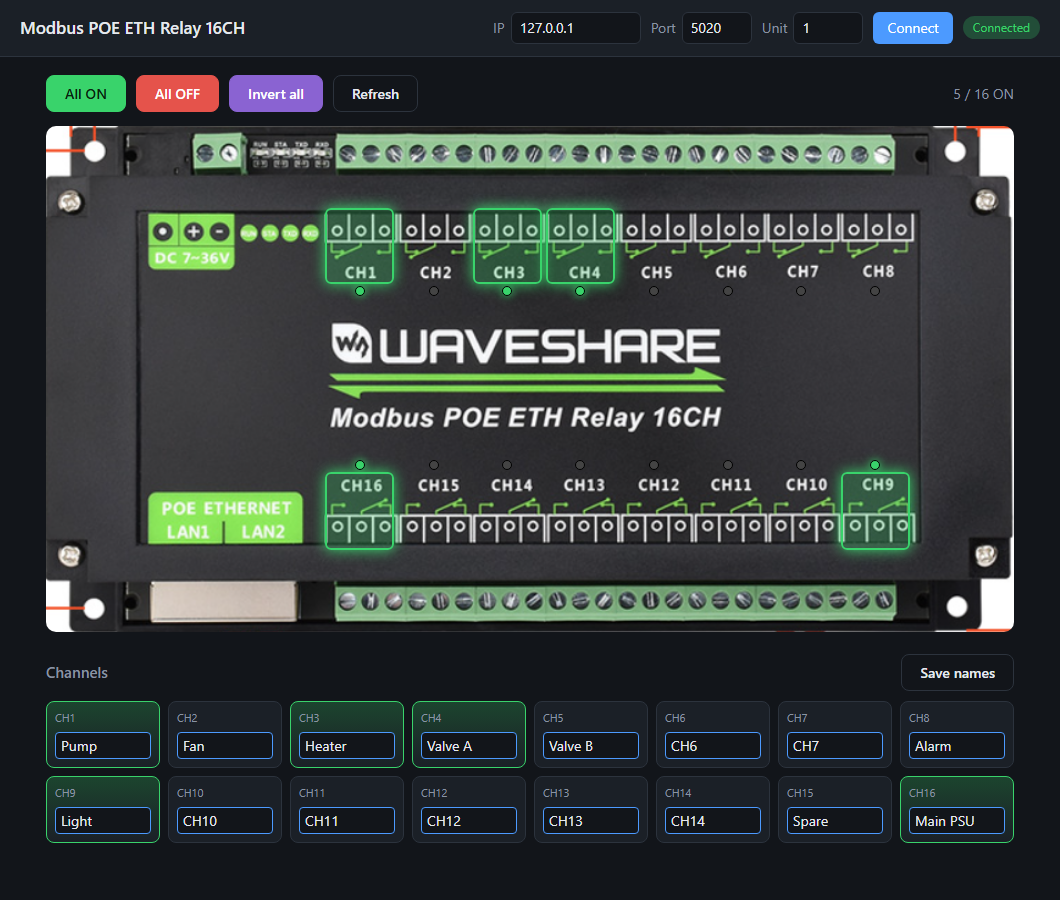
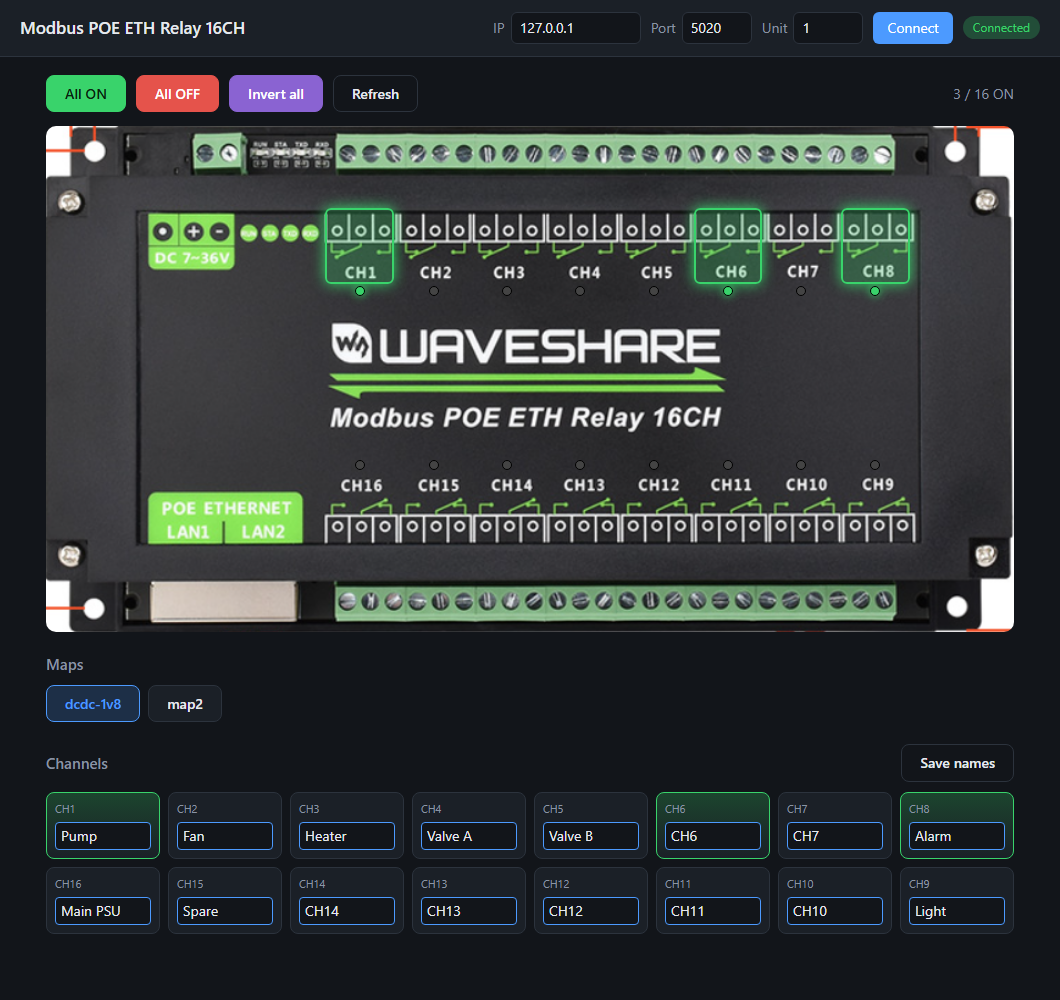
improved map feature + doc update

diff --git a/static/app.js b/static/app.js
@@ -10,7 +10,7 @@ const ROW_BOTTOM = { y: 312, h: 70 };  // CH16..CH9 (labels + terminals)
 
 let states = new Array(N).fill(false);
 let names = Array.from({ length: N }, (_, i) => `CH${i + 1}`);
-let maps = [];   // [{name, channels: [1-based channel numbers]}] from config.json "mapN" keys
+let maps = [];   // [{name, channels: [1-based channel numbers]}] from config.json "maps" dict
 let editing = false;
 
 const $ = (sel) => document.querySelector(sel);
@@ -85,7 +85,9 @@ function buildHotspots() {
 function buildCards() {
   const wrap = $('#channels');
   wrap.innerHTML = '';
-  for (let ch = 1; ch <= N; ch++) {
+  // same layout as the board: CH1..CH8 on top, CH16..CH9 below
+  const order = Array.from({ length: N }, (_, i) => (i < 8 ? i + 1 : N + 8 - i));
+  for (const ch of order) {
     const c = document.createElement('div');
     c.className = 'card';
     c.addEventListener('click', (e) => { if (!editing && e.target.tagName !== 'INPUT') toggle(ch); });
@@ -102,7 +104,7 @@ function buildMaps() {
     const b = document.createElement('button');
     b.className = 'btn map';
     b.textContent = m.name;
-    b.addEventListener('click', () => applyMap(m.name));
+    b.addEventListener('click', () => applyMap(m.name, b.classList.contains('active')));
     list.appendChild(b);
     mapBtns.push(b);
   });
@@ -115,7 +117,9 @@ function render() {
     const active = states.every((on, ch) => !!on === m.channels.includes(ch + 1));
     mapBtns[i].classList.toggle('active', active);
     const list = m.channels.map((ch) => names[ch - 1]).join(', ') || 'none';
-    mapBtns[i].title = `ON: ${list} — all others OFF`;
+    mapBtns[i].title = active
+      ? `Active (ON: ${list}) — click to turn all OFF`
+      : `ON: ${list} — all others OFF`;
   });
   let onCount = 0;
   for (let i = 0; i < N; i++) {
@@ -153,9 +157,11 @@ async function bulk(kind) {
   btns.forEach((b) => (b.disabled = false));
 }
 
-async function applyMap(name) {
+// Clicking the active map turns it "off" (all relays OFF); otherwise apply it.
+async function applyMap(name, active) {
   mapBtns.forEach((b) => (b.disabled = true));
-  await command('POST', `/api/map/${encodeURIComponent(name)}`, null, [...hots, ...cards]);
+  const url = active ? '/api/all/off' : `/api/map/${encodeURIComponent(name)}`;
+  await command('POST', url, null, [...hots, ...cards]);
   mapBtns.forEach((b) => (b.disabled = false));
 }
 

diff --git a/app.py b/app.py
@@ -23,6 +23,7 @@ DEFAULT_CONFIG = {
     'port': 4196,
     'unit': 1,
     'names': ['CH%d' % (i + 1) for i in range(NUM_RELAYS)],
+    'maps': {},
 }
 
 
@@ -41,10 +42,12 @@ def save_config(cfg):
         json.dump(cfg, f, indent=2)
 
 
-def map_keys():
-    """Config keys "map1", "map2", ... in numeric order."""
-    keys = [k for k in config if re.fullmatch(r'map\d+', k) and isinstance(config[k], list)]
-    return sorted(keys, key=lambda k: int(k[3:]))
+def config_maps():
+    """The "maps" dict of config.json ({name: [channel refs]}), in file order."""
+    maps = config.get('maps')
+    if not isinstance(maps, dict):
+        return {}
+    return {str(k): v for k, v in maps.items() if isinstance(v, list)}
 
 
 def resolve_channel(ref):
@@ -58,13 +61,13 @@ def resolve_channel(ref):
     return None
 
 
-def resolve_map(key):
-    channels = {resolve_channel(r) for r in config[key]}
+def resolve_map(refs):
+    channels = {resolve_channel(r) for r in refs}
     return sorted(c for c in channels if c)
 
 
 def config_response():
-    maps = [{'name': k, 'channels': resolve_map(k)} for k in map_keys()]
+    maps = [{'name': k, 'channels': resolve_map(v)} for k, v in config_maps().items()]
     return dict(config, maps=maps)
 
 
@@ -144,12 +147,13 @@ def all_off():
     return run_and_read(lambda: relay.set_all([False] * NUM_RELAYS))
 
 
-@app.post('/api/map/<name>')
+@app.post('/api/map/<path:name>')
 def apply_map(name):
-    """Turn ON the relays listed in config[name], all others OFF (one 0x0F write)."""
-    if name not in map_keys():
+    """Turn ON the relays listed in config["maps"][name], all others OFF (one 0x0F write)."""
+    maps = config_maps()
+    if name not in maps:
         return jsonify(ok=False, error='unknown map "%s"' % name), 404
-    channels = resolve_map(name)
+    channels = resolve_map(maps[name])
     return run_and_read(lambda: relay.set_all([ch in channels for ch in range(1, NUM_RELAYS + 1)]))
 
 

diff --git a/README.md b/README.md
@@ -54,15 +54,17 @@ An ON relay shows green on the photo and on its card. The counter at the top rig
 
 ## Maps (relay presets)
 
-A map is a set of relays to turn ON; every other relay is turned OFF. Add `map1`, `map2`, ... to `config.json`:
+A map is a set of relays to turn ON; every other relay is turned OFF. Add a `maps` dictionary to `config.json`. The key is the map name (any text), the value is the list of relays:
 
 ```json
-  "map1": ["CH1", "CH6", "CH8"],
-  "map2": ["CH12", "CH13", "CH3"]
+  "maps": {
+    "dcdc-1v8": ["CH1", "CH6", "CH8"],
+    "map2": ["CH12", "CH13", "CH3"]
+  }
 ```
 
 An entry is a channel number (`"CH3"` or `3`) or a channel name (`"Pump"`). Restart `app.py` after editing the file.
-Each map shows as a button under **Maps**. Click it to apply the map in one write. The button is highlighted while the relays match the map exactly.
+Each map shows as a button under **Maps**, in file order. Click it to apply the map in one write. The button is highlighted while the relays match the map exactly. Click a highlighted button again to turn the map off (all relays OFF).
 
 ## Rename channels
 
